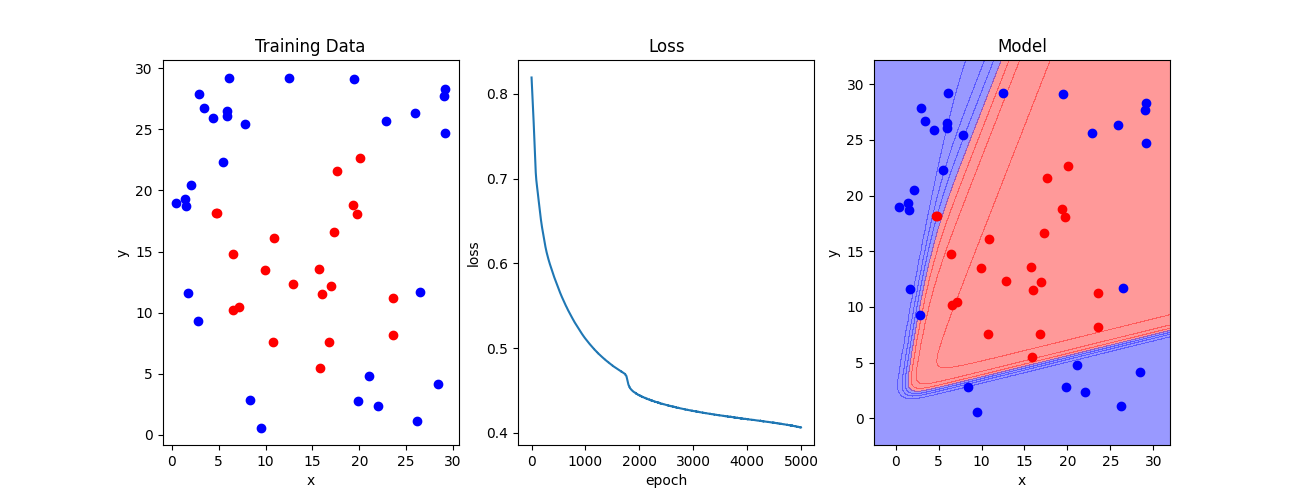
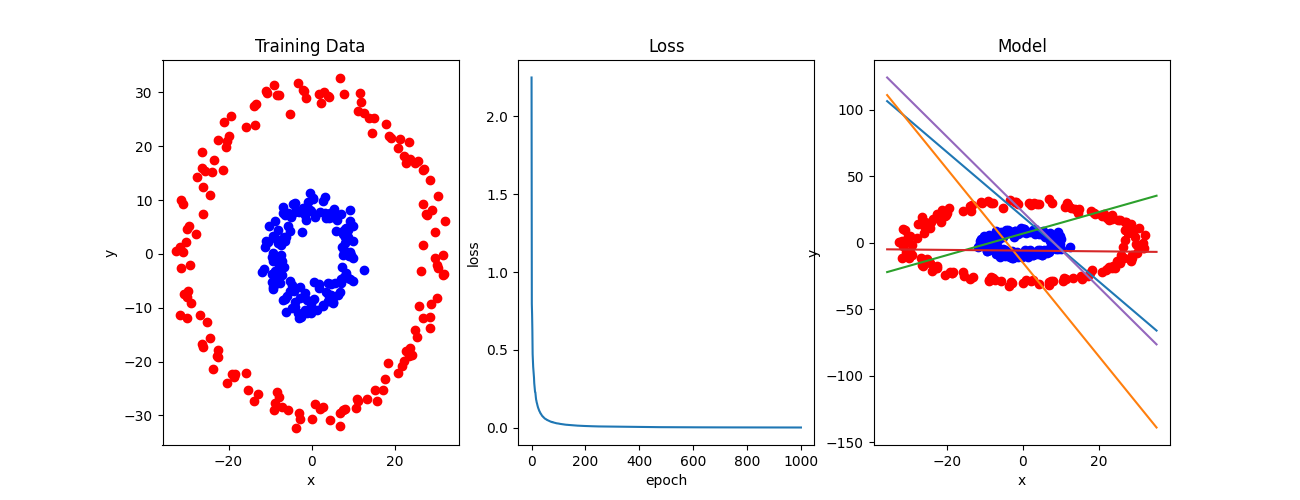
update lot

diff --git a/[TH#02] Neural Network/neural_network.py b/[TH#02] Neural Network/neural_network.py
@@ -14,14 +14,17 @@ class neural_network():
 
     def build(self, in_dim = 1):
         input = Input(in_dim)
-        hidden = Dense(5, use_bias=True, activation='sigmoid')(input)
+        hidden = Dense(5, use_bias=True, activation='relu')(input)
         output = Dense(1, use_bias=True, activation='sigmoid')(hidden)
         self.model = Model(input, output)
         return self.model
 
     def train(self, x_train, y_train):
-        self.model.compile(optimizer="Adam", loss="binary_crossentropy")
-        hist = self.model.fit(x_train, y_train, epochs=5000)
+        optimizer = tf.keras.optimizers.SGD(
+            learning_rate=0.01,
+            momentum=0.9)
+        self.model.compile(optimizer=optimizer, loss="binary_crossentropy")
+        hist = self.model.fit(x_train, y_train, epochs=1000)
         return hist
 
     def save(self, model_path):
@@ -41,13 +44,16 @@ class neural_network():
         return self.model.layers[1].get_weights()
 
 # Step 1: Generate and visualize data
-np.random.seed(1907)
-tf.random.set_seed(1907)
-x = np.random.rand(50, 2)*30
-y = []
-for i in range(x.shape[0]):
-    y.append(1 if (x[i, 0]-15)**2 + (x[i, 1]-15)**2 > 121 else 0 )
-y = np.array(y)
+from sklearn.datasets import make_circles
+x, y = make_circles(n_samples=300, factor=0.3, noise=0.05, random_state=0)
+x *= 30
+# np.random.seed(1907)
+# tf.random.set_seed(1907)
+# x = np.random.rand(15, 2)*30
+# y = []
+# for i in range(x.shape[0]):
+#     y.append(1 if (x[i, 0]-15)**2 + (x[i, 1]-15)**2 > 121 else 0 )
+# y = np.array(y)
 
 # Step 2: Build model 
 NNmodel = neural_network()
@@ -90,23 +96,23 @@ plt.subplot(1, 3, 3)
 colors = ('red','blue')
 cmap = ListedColormap(colors[:len(np.unique(y))])
 
-x_min, x_max = min(x[:, 0]) - 3, max(x[:, 0]) + 3
-y_min, y_max = min(x[:, 1]) - 3, max(x[:, 1]) + 3
-x1, x2 = np.meshgrid(np.arange(x_min, x_max, 0.5),
-                        np.arange(y_min, y_max, 0.2))
-Z = []
-for i in range(x1.shape[0]):
-    x_gr = np.concatenate(([x1[i]], [x2[i]]), axis=0)
-    Z.append(((NNmodel.predict(x_gr.T)).T)[0])
-Z = np.array(Z)
-plt.contourf(x1, x2, Z, alpha=0.4, cmap=cmap)
-plt.xlim(x1.min(), x1.max())
-plt.ylim(x2.min(), x2.max())
+
 for i in range(x.shape[0]):
     if y[i]==0: 
         plt.scatter(x[i, 0], x[i, 1], color='red')
     else: 
         plt.scatter(x[i, 0], x[i, 1], color='blue')
+for i in range(5):
+    c = -bias[i]/a[1][i]
+    m = -a[0][i]/a[1][i]
+    x_min, x_max = min(x[:, 0]) - 3, max(x[:, 0]) + 3
+    ymin, ymax = m*x_min+c, m*x_max+c
+    xd = np.array([x_min, x_max])
+    yd = m*xd + c
+    plt.plot(xd, yd)
+    # plt.plot(xd, yd, 'k', lw=1, ls='--')
+    # plt.fill_between(xd, yd, ymin, color='tab:blue', alpha=0.2)
+    # plt.fill_between(xd, yd, ymax, color='tab:orange', alpha=0.2)
 # plt.plot(x, SoftmaxModel.predict(x), color='red')
 plt.xlabel('x')
 plt.ylabel('y')
@@ -114,3 +120,4 @@ plt.title("Model")
 
 plt.savefig("neuralnetwork_result.png")
 plt.show()
+
